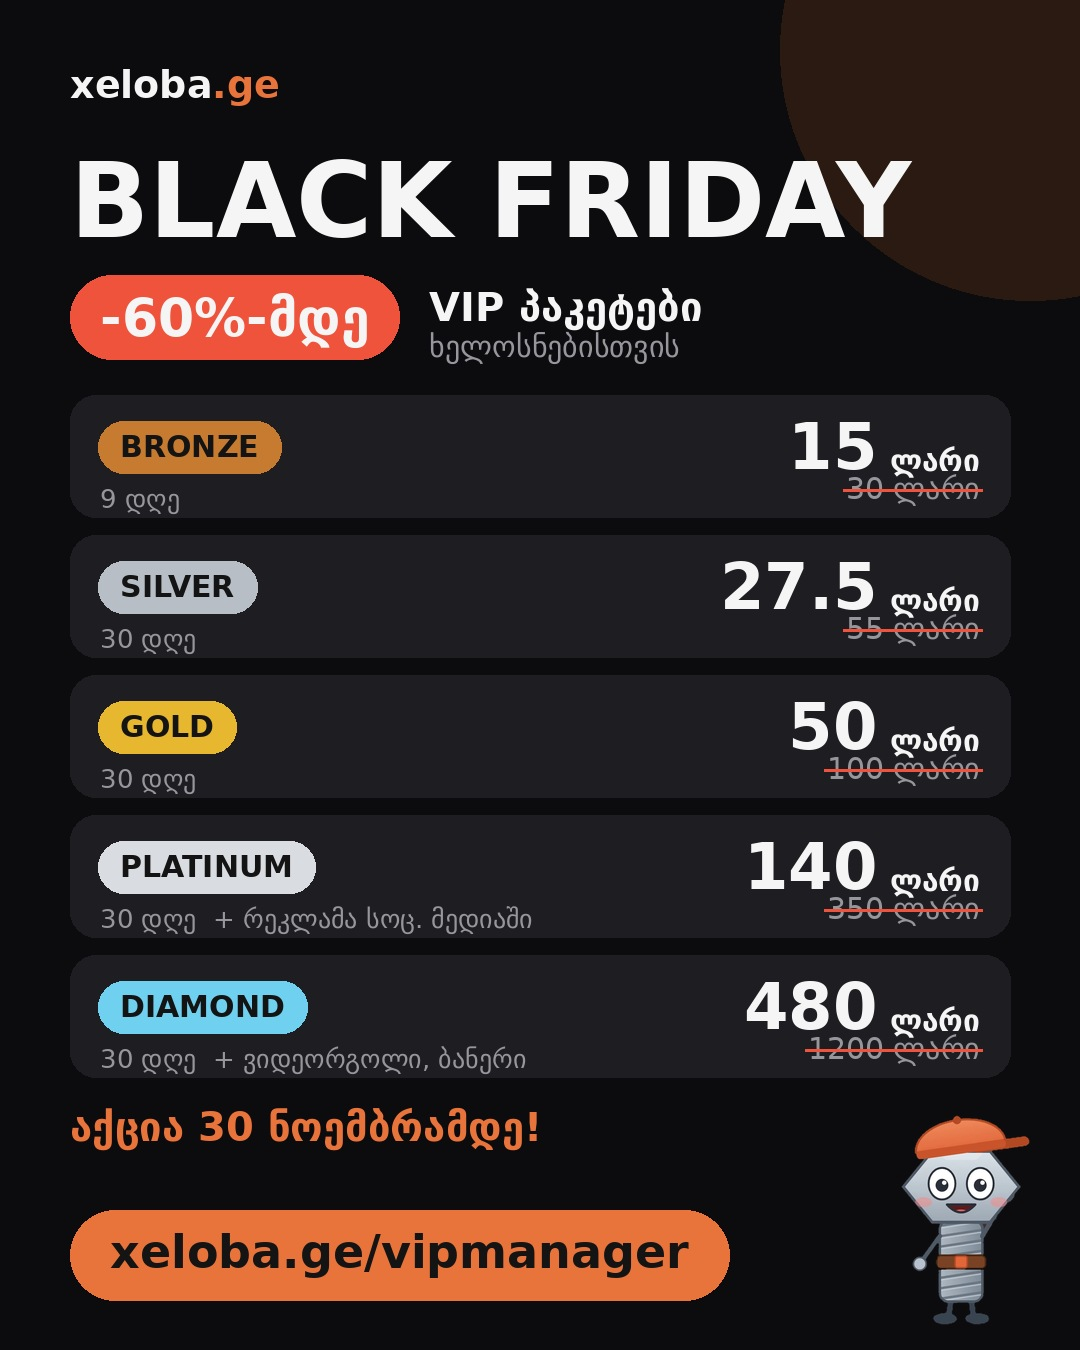
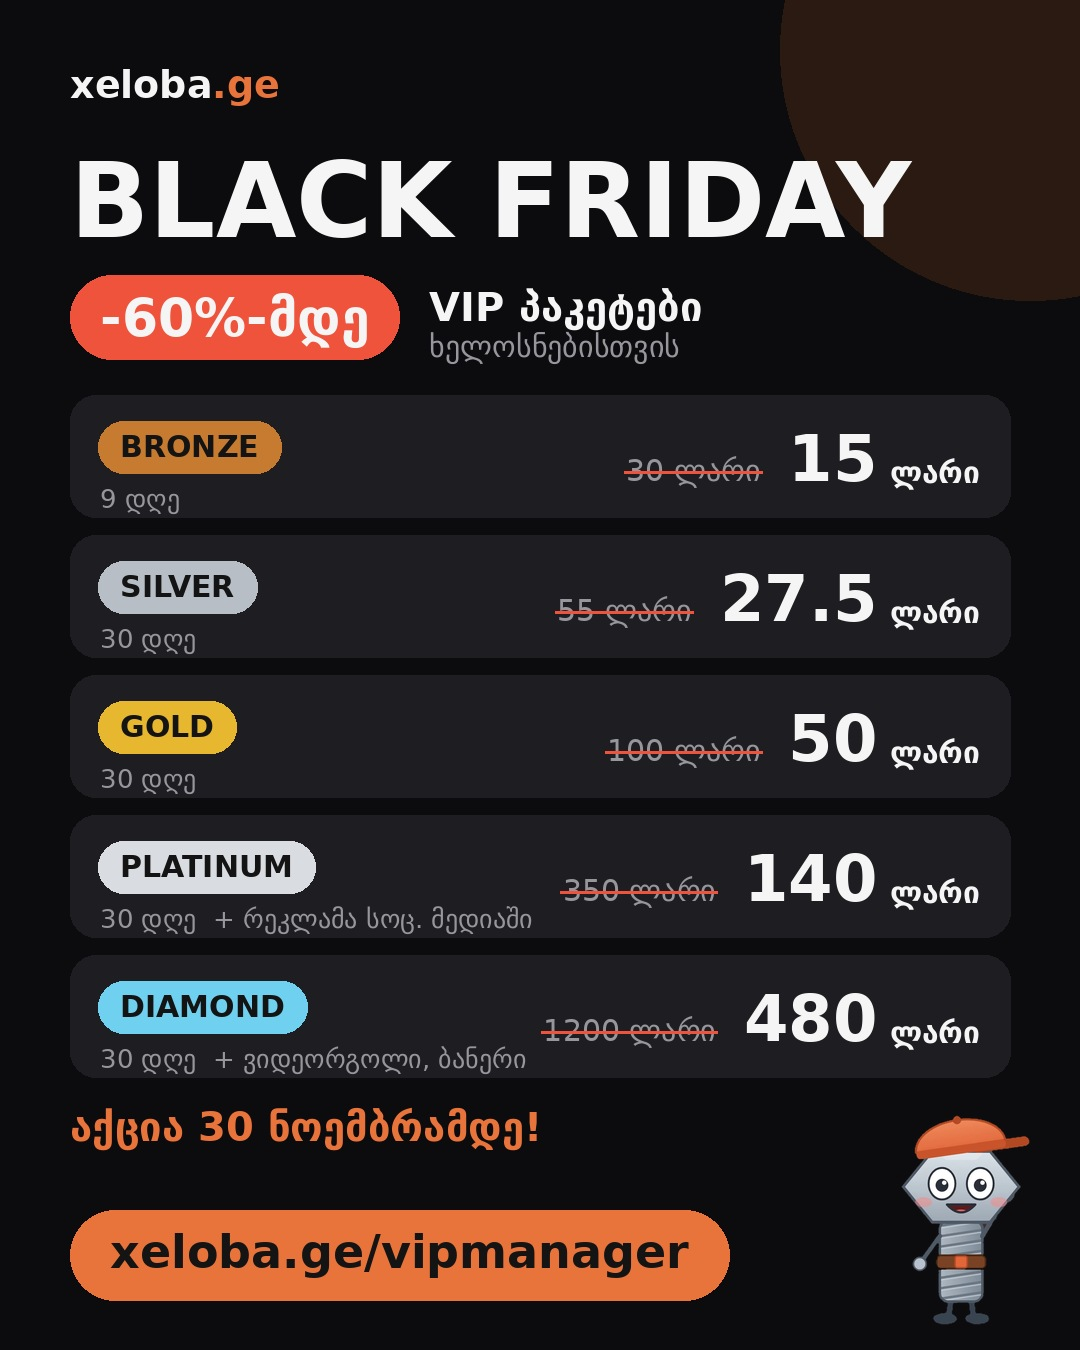
Black Friday card: old prices beside new ones
Claude-Session: https://claude.ai/code/session_011fkm9FwnKNFkRaDXfG1YFW

diff --git a/tools/black_friday.py b/tools/black_friday.py
@@ -53,9 +53,9 @@ for name, col, tcol, new, old, days, extra in tiers:
     lw = d.textlength("ლარი", font=lf)
     nw, ow = d.textlength(new_t, font=nf), d.textlength(old_t, font=of)
     rx = W - 100
-    d.text((rx - lw, y + 48), "ლარი", font=lf, fill=WHITE)
-    d.text((rx - lw - 12 - nw, y + 14), new_t, font=nf, fill=WHITE)
-    ox, oy = rx - ow, y + 76
+    d.text((rx - lw, y + 60), "ლარი", font=lf, fill=WHITE)
+    d.text((rx - lw - 12 - nw, y + 26), new_t, font=nf, fill=WHITE)
+    ox, oy = rx - lw - 12 - nw - 28 - ow, y + 58
     d.text((ox, oy), old_t, font=of, fill=GREY)
     d.line([(ox - 2, oy + 19), (ox + ow + 2, oy + 19)], fill=RED, width=3)
     y += row_h
